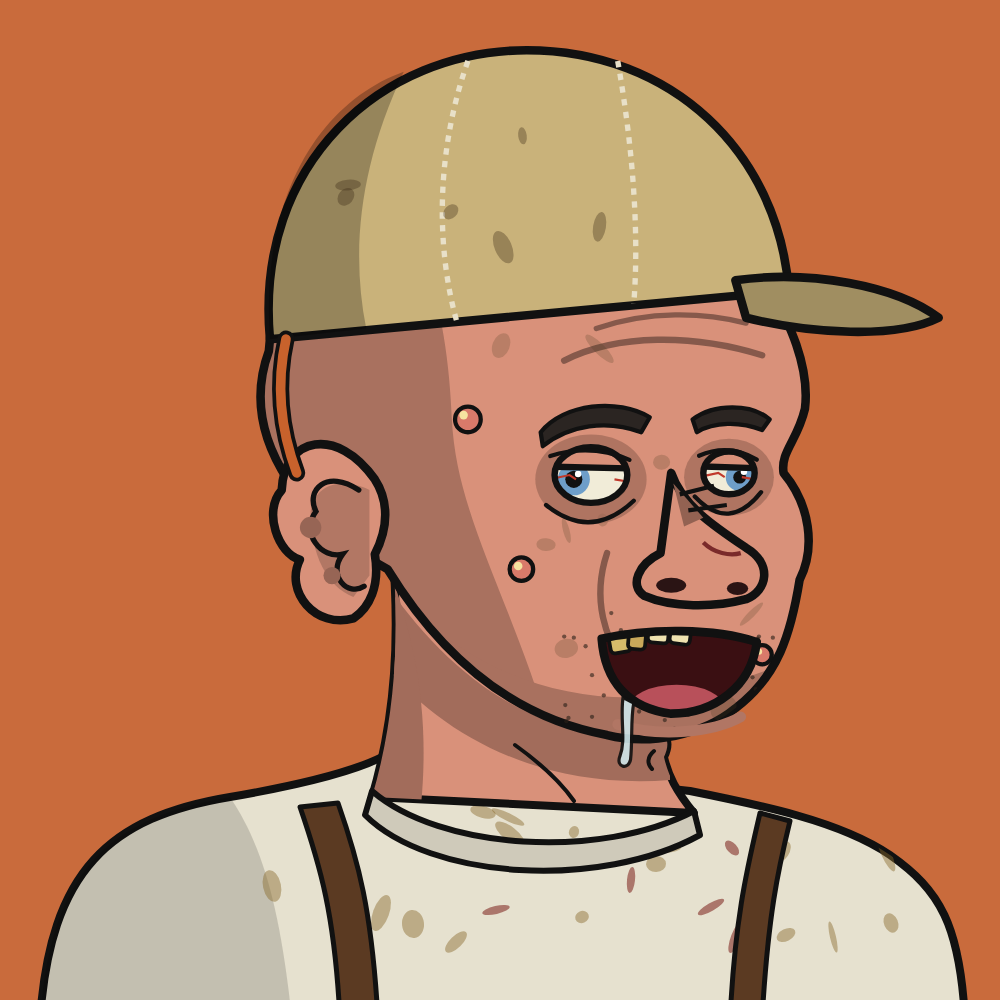
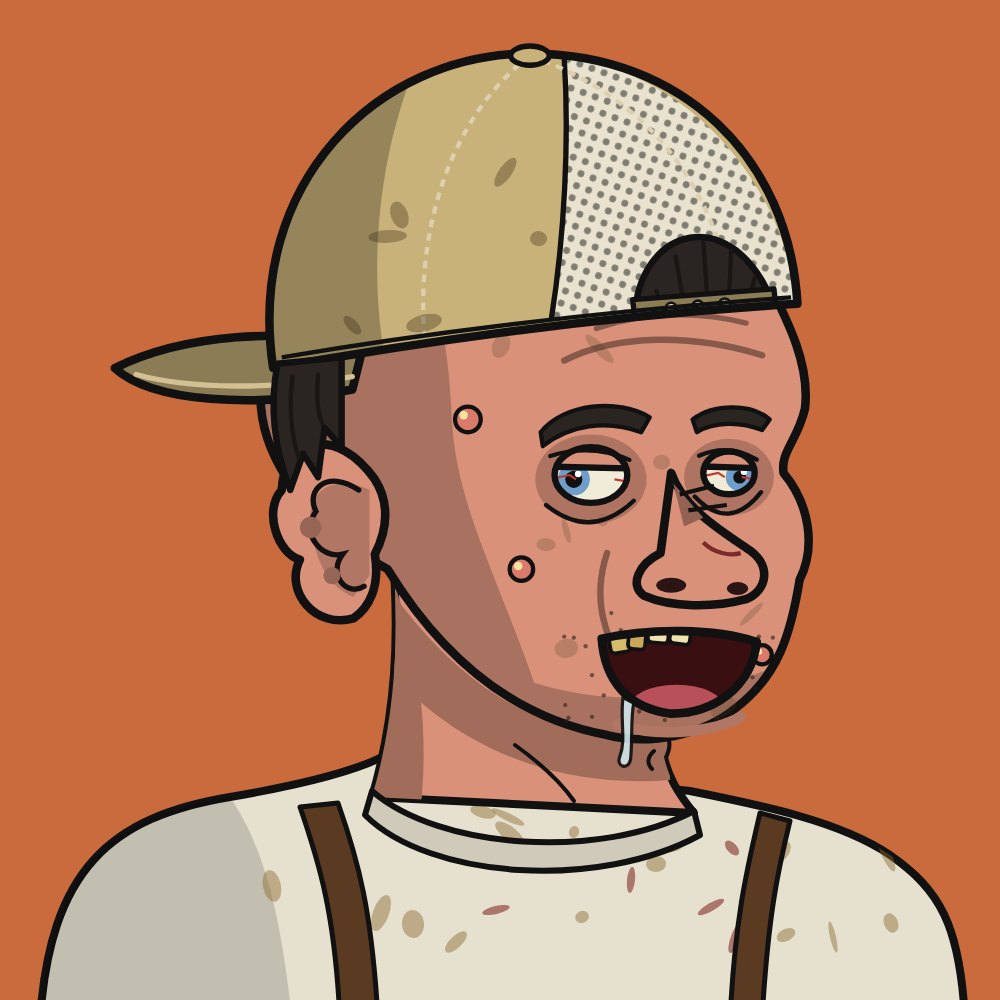
Turn the baseball cap backward
Brim sticks out behind the head, mesh panels and snapback strap face
forward with hair showing through the opening. Hair under the cap now
matches the brows.

Claude-Session: https://claude.ai/code/session_017UCt1z2AuBV5KmMuNTHD9R

Changed region(s): [[0.093, 0.031, 0.961, 0.496], [0.496, 0.124, 0.527, 0.186]]

diff --git a/generator/traits.py b/generator/traits.py
@@ -550,16 +550,52 @@ def hair(kind, color, rng):
                 f'<path d="M 340 330 C 380 230 470 175 600 170 M 360 360 C 400 270 470 210 640 185 M 330 280 C 380 200 440 165 520 150" '
                 f'fill="none" stroke="{dark}" stroke-width="6" stroke-linecap="round"/>'
                 f'<path d="M 420 200 C 470 175 520 165 560 162" fill="none" stroke="{shade(color, 1.5)}" stroke-width="6" stroke-linecap="round"/>')
-    if kind == "Trucker Cap":
+    if kind == "Backwards Cap":
         cap = rng.choice(["#2f4f3a", "#7a2f2a", "#c9b27a", "#2a3550"])
-        return (f'<path d="M 285 345 C 270 180 390 75 525 75 C 660 75 760 170 770 300 L 285 345 Z" '
-                f'fill="{cap}" stroke="{OUT}" stroke-width="{SW}" stroke-linejoin="round"/>'
-                f'<path d="M 285 345 C 275 200 340 120 410 95 C 370 180 360 260 375 335 Z" fill="#000" opacity="0.25"/>'
-                f'<path d="M 470 85 C 440 170 440 260 460 330 M 610 85 C 625 170 630 250 625 312" fill="none" stroke="#e8e0c8" stroke-width="5" stroke-dasharray="6 6"/>'
-                f'<path d="M 720 290 C 790 280 870 295 910 325 C 870 345 790 340 730 325 Z" fill="{shade(cap, 0.8)}" stroke="{OUT}" stroke-width="{SW}" stroke-linejoin="round"/>'
-                + _grime(rng, 350, 700, 150, 300, 6, "#3b2a18", 0.35)
-                + f'<path d="M 300 345 C 290 390 295 430 310 470" fill="none" stroke="{OUT}" stroke-width="16" stroke-linecap="round"/>'
-                + f'<path d="M 300 345 C 290 390 295 430 310 470" fill="none" stroke="{rng.choice(list(HAIR_COLORS.values()))}" stroke-width="9" stroke-linecap="round"/>')
+        mesh = rng.choice(["#e8e2cf", "#1f1f1f", shade(cap, 1.35)])
+        dark = shade(cap, 0.7)
+        hair_c = color
+        crown = ("M 288 372 C 262 200 385 78 528 78 C 670 78 770 175 778 312 "
+                 "C 610 322 440 345 288 372 Z")
+        # front panels (now facing the back) are solid; mesh panels face forward
+        mesh_area = ("M 560 82 C 660 92 760 180 778 312 C 700 316 620 320 548 326 "
+                     "C 560 250 565 160 560 82 Z")
+        out = [
+            '<defs><pattern id="capmesh" width="12" height="12" patternUnits="userSpaceOnUse" patternTransform="rotate(20)">'
+            f'<rect width="12" height="12" fill="{mesh}"/><circle cx="6" cy="6" r="3.2" fill="{shade(mesh, 0.55)}"/></pattern>'
+            f'<clipPath id="capclip"><path d="{crown}"/></clipPath></defs>',
+            # brim sticking out behind the head, seen from below-side
+            f'<path d="M 372 352 C 300 334 205 340 140 372 C 175 404 270 410 362 392 Z" '
+            f'fill="{dark}" stroke="{OUT}" stroke-width="{SW}" stroke-linejoin="round"/>',
+            f'<path d="M 362 380 C 290 392 210 392 160 378" fill="none" stroke="{shade(cap, 1.2)}" stroke-width="5" stroke-linecap="round"/>',
+            f'<path d="{crown}" fill="{cap}"/>',
+            '<g clip-path="url(#capclip)">',
+            f'<path d="{mesh_area}" fill="url(#capmesh)"/>',
+            f'<path d="M 560 82 C 565 160 560 250 548 326" fill="none" stroke="{OUT}" stroke-width="5"/>',
+            # back-of-head shadow side
+            f'<path d="M 280 380 C 270 220 340 120 420 92 C 385 180 378 280 392 360 Z" fill="#000" opacity="0.25"/>',
+            # stitched panel seams converging on the top button
+            f'<path d="M 528 80 C 450 140 420 250 430 352 M 528 80 C 640 120 700 200 720 316" fill="none" stroke="{shade(cap, 1.4)}" stroke-width="4" stroke-dasharray="7 6"/>',
+            # snapback opening over the forehead showing skin/hair
+            f'<path d="M 626 326 C 628 240 718 214 756 314 Z" fill="{hair_c}" stroke="{OUT}" stroke-width="6" stroke-linejoin="round"/>',
+            f'<path d="M 646 300 l 8 20 M 664 268 l 8 44 M 690 254 l 4 56 M 716 262 l -2 46 M 738 288 l -6 22" stroke="{shade(hair_c, 0.6)}" stroke-width="4" stroke-linecap="round"/>',
+            # adjustable strap with snaps
+            f'<path d="M 624 308 L 756 298 L 758 316 L 626 326 Z" fill="{dark}" stroke="{OUT}" stroke-width="5" stroke-linejoin="round"/>',
+            f'<circle cx="660" cy="316" r="5" fill="{shade(cap, 1.5)}" stroke="{OUT}" stroke-width="2.5"/>'
+            f'<circle cx="685" cy="314" r="5" fill="{shade(cap, 1.5)}" stroke="{OUT}" stroke-width="2.5"/>'
+            f'<circle cx="710" cy="312" r="5" fill="{shade(cap, 1.5)}" stroke="{OUT}" stroke-width="2.5"/>',
+            _grime(rng, 330, 560, 140, 340, 6, "#3b2a18", 0.35),
+            '</g>',
+            f'<path d="{crown}" fill="none" stroke="{OUT}" stroke-width="{SW}" stroke-linejoin="round"/>',
+            # sweat band edge
+            f'<path d="M 296 362 C 450 336 610 318 772 306" fill="none" stroke="{OUT}" stroke-width="4"/>',
+            f'<ellipse cx="528" cy="80" rx="18" ry="9" fill="{cap}" stroke="{OUT}" stroke-width="5"/>',
+            # greasy tuft of hair poking out over the ear
+            f'<path d="M 292 368 C 284 410 290 450 304 486 L 316 452 L 330 474 L 336 428 L 352 446 L 352 362 Z" '
+            f'fill="{hair_c}" stroke="{OUT}" stroke-width="6" stroke-linejoin="round"/>',
+            f'<path d="M 306 380 C 302 410 306 440 312 456 M 330 378 C 328 400 330 415 334 424" fill="none" stroke="{shade(hair_c, 0.6)}" stroke-width="4" stroke-linecap="round"/>',
+        ]
+        return "".join(out)
     raise ValueError(kind)
 
 

diff --git a/generator/generate.py b/generator/generate.py
@@ -26,7 +26,7 @@ CHOICES = {
     "Brows": ["None", "Bushy", "Scarred"],
     "Nose": ["Split Nostril", "Bulbous", "Smashed Flat", "Missing"],
     "Mouth": ["Snarl", "Slack Jaw", "Crooked Grin", "Lipless"],
-    "Hair": ["Bald", "Stringy Long", "Patchy Tufts", "Greasy Comb-over", "Trucker Cap"],
+    "Hair": ["Bald", "Stringy Long", "Patchy Tufts", "Greasy Comb-over", "Backwards Cap"],
     "Hair Color": list(T.HAIR_COLORS),
     "Clothing": ["Denim Shirt", "Red Flannel", "Green Flannel", "Chore Coat", "Stained Undershirt"],
     "Skin Detail": ["None", "Stitches", "Veins", "Boils", "Burn Scar", "Wart"],
@@ -51,7 +51,7 @@ def compose(attrs, seed):
         T.neck(skin),
         cloth_front,
         f'<g transform="{HEAD_T}">',
-        T.head(skin, rng, SWELL[attrs["Swelling"]]),
+        T.head(skin, rng, min(SWELL[attrs["Swelling"]], 34) if attrs["Hair"] == "Backwards Cap" else SWELL[attrs["Swelling"]]),
         T.skin_details(details, skin, rng),
         T.ear(skin, attrs["Ear"]),
         T.eyes(attrs["Eyes"], skin, rng),
@@ -78,7 +78,7 @@ SAMPLES = [
      "Hair": "Patchy Tufts", "Hair Color": "Ash Grey", "Clothing": "Red Flannel", "Skin Detail": "Stitches"},
     {"Background": "Rust", "Skin Tone": "Ruddy", "Swelling": "Lumpy", "Ear": "Cauliflower",
      "Eyes": "Lazy Eye", "Brows": "Bushy", "Nose": "Smashed Flat", "Mouth": "Slack Jaw",
-     "Hair": "Trucker Cap", "Hair Color": "Greasy Black", "Clothing": "Stained Undershirt", "Skin Detail": "Boils"},
+     "Hair": "Backwards Cap", "Hair Color": "Greasy Black", "Clothing": "Stained Undershirt", "Skin Detail": "Boils"},
     {"Background": "Bruise Purple", "Skin Tone": "Pale Wax", "Swelling": "Grotesque", "Ear": "Normal",
      "Eyes": "Pinprick", "Brows": "None", "Nose": "Split Nostril", "Mouth": "Snarl",
      "Hair": "Greasy Comb-over", "Hair Color": "Dirty Blonde", "Clothing": "Green Flannel", "Skin Detail": "Burn Scar"},
